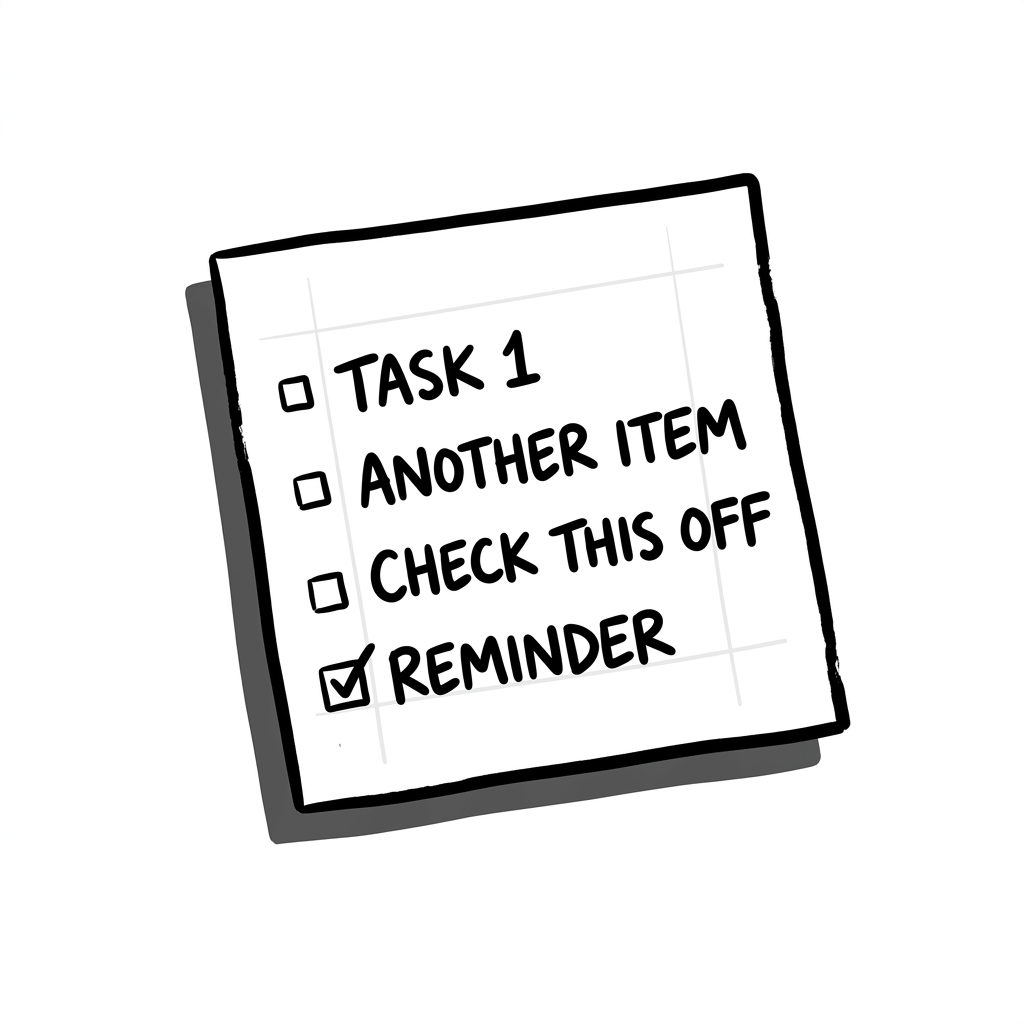
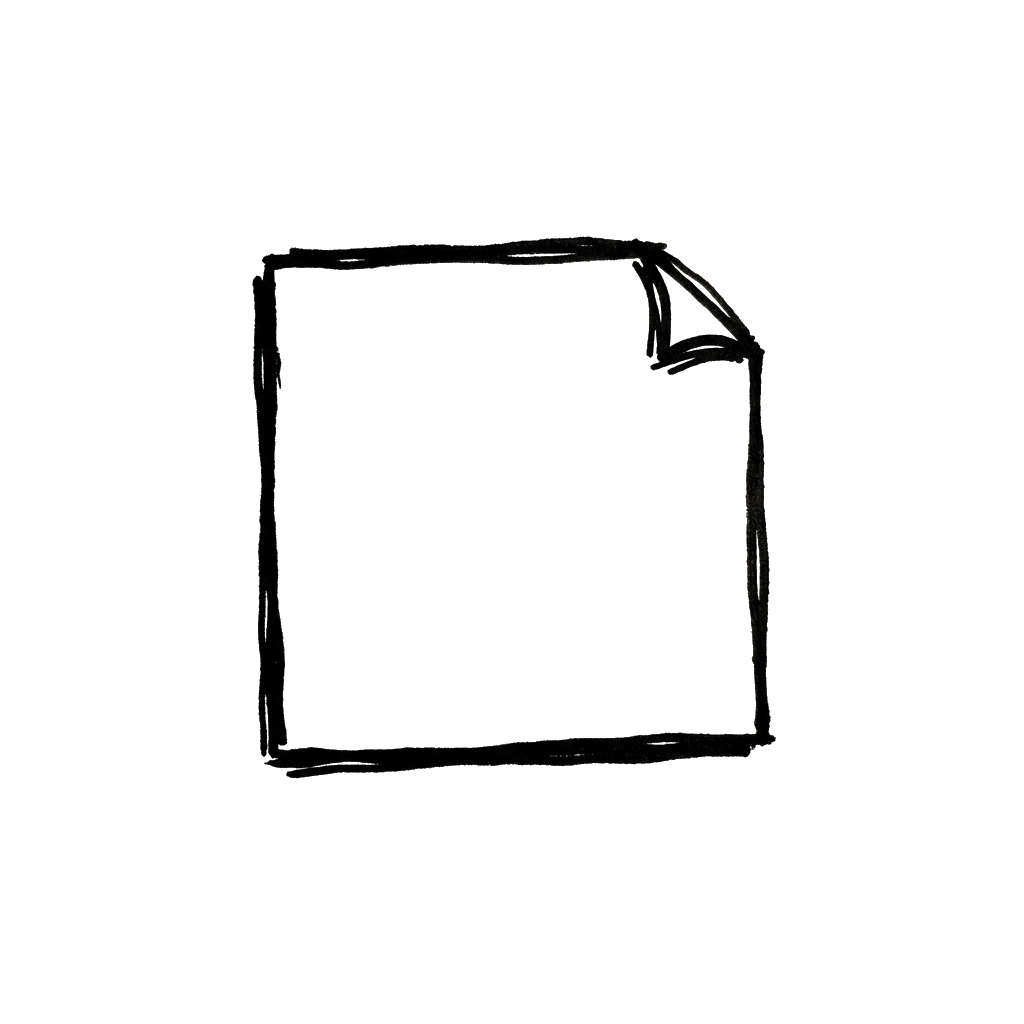
style: correctly remove doodle backgrounds via Node script and restore CSS

Changed region(s): [[0.1562, 0.1562, 0.8438, 0.8438], [0.5, 0.3125, 0.5312, 0.375]]

diff --git a/project/src/pages/Landing.tsx b/project/src/pages/Landing.tsx
@@ -695,8 +695,8 @@ export const Landing = () => {
                 style={{ opacity: introPhase === 'reveal' || introPhase === 'finished' ? 1 : 0 }}
             >
                 {/* Nanobana Doodles */}
-                <img src="/doodle_sticky.png" className="absolute top-32 left-12 w-56 h-56 opacity-90 animate-float z-0 pointer-events-none hidden md:block mix-blend-multiply" alt="sticky" />
-                <img src="/doodle_pen.png" className="absolute top-[60vh] right-20 w-64 h-64 opacity-90 animate-wobble z-0 pointer-events-none hidden md:block mix-blend-multiply" alt="pen" />
+                <img src="/doodle_sticky.png" className="absolute top-32 left-12 w-56 h-56 opacity-90 animate-float z-0 pointer-events-none hidden md:block" alt="sticky" />
+                <img src="/doodle_pen.png" className="absolute top-[60vh] right-20 w-64 h-64 opacity-90 animate-wobble z-0 pointer-events-none hidden md:block" alt="pen" />
 
                 {/* Background Ruled Lines */}
                 <div className="ruled h" style={{ top: '25%' }} />

diff --git a/project/src/pages/Dashboard.tsx b/project/src/pages/Dashboard.tsx
@@ -314,8 +314,8 @@ export const Dashboard = () => {
   return (
     <div className="min-h-screen bg-[#F2EFE9] transition-colors duration-300 relative overflow-hidden">
       {/* Nanobana Doodles */}
-      <img src="/doodle_sticky.png" className="absolute top-10 left-10 w-48 h-48 opacity-90 animate-float z-0 pointer-events-none mix-blend-multiply" alt="sticky" />
-      <img src="/doodle_pen.png" className="absolute bottom-20 right-10 w-56 h-56 opacity-90 animate-wobble z-0 pointer-events-none mix-blend-multiply" alt="pen" />
+      <img src="/doodle_sticky.png" className="absolute top-10 left-10 w-48 h-48 opacity-90 animate-float z-0 pointer-events-none" alt="sticky" />
+      <img src="/doodle_pen.png" className="absolute bottom-20 right-10 w-56 h-56 opacity-90 animate-wobble z-0 pointer-events-none" alt="pen" />
       
       <Navbar />
       <main className="max-w-[1600px] mx-auto px-6 py-10 relative z-10">
